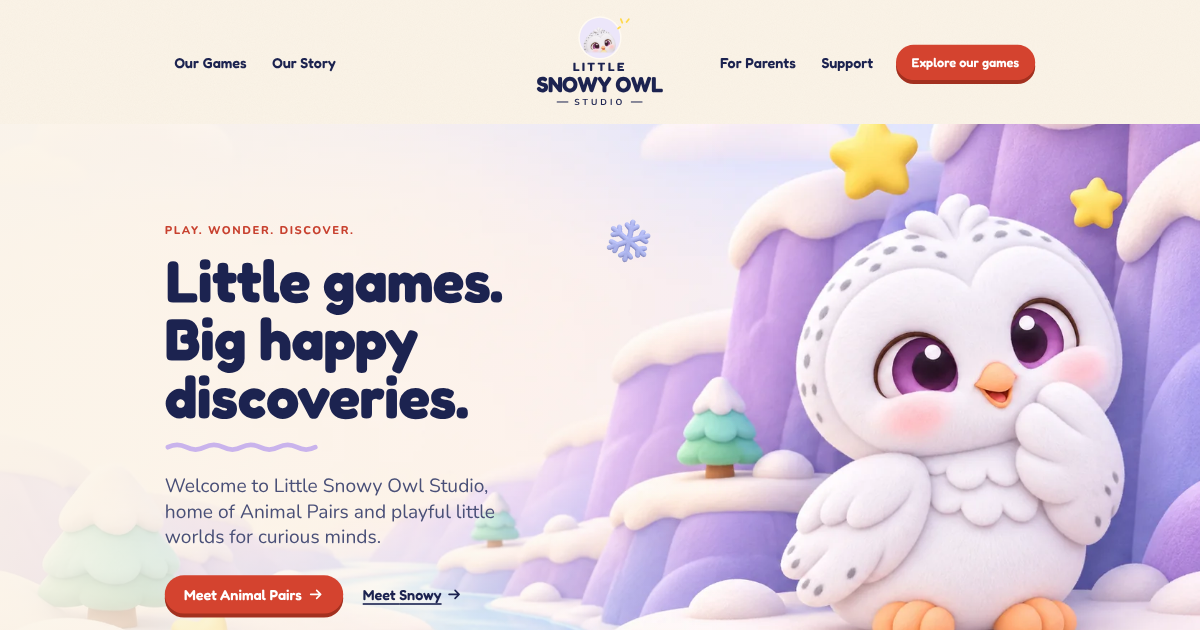
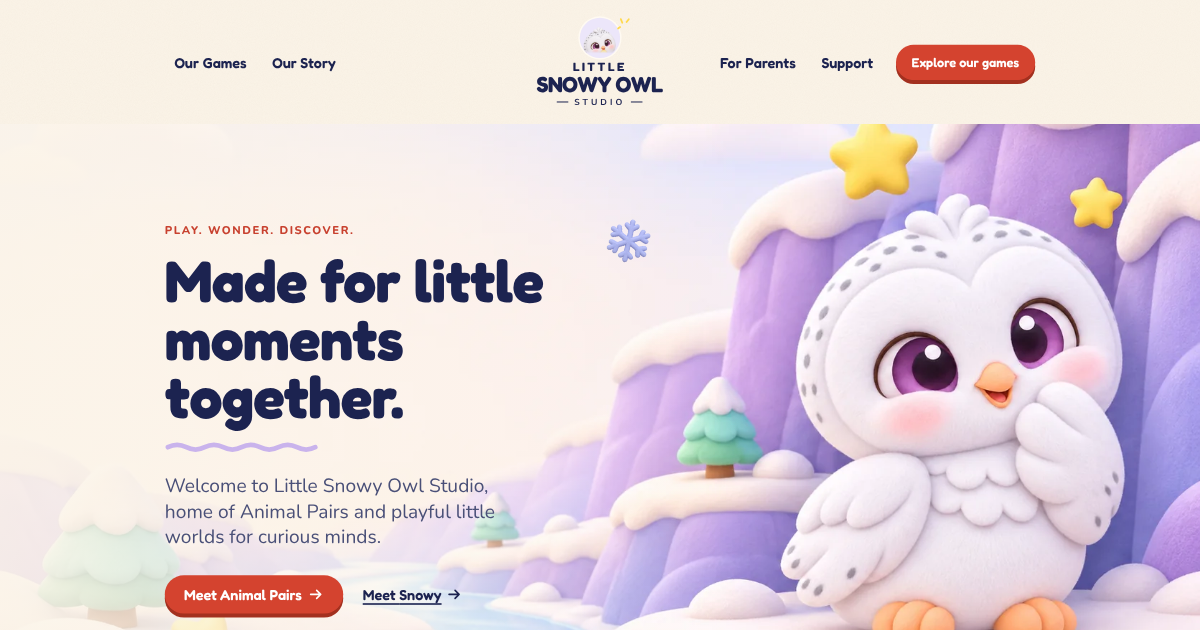
Homepage headline: "Made for little moments together."
Replace "Little games. Big happy discoveries." with the new studio
slogan, and regenerate the social-sharing image from the new hero.

Claude-Session: https://claude.ai/code/session_01PT21SUBoDBaVDdxc9zsmT5

Changed region(s): [[0.1233, 0.3921, 0.4625, 0.6937]]

diff --git a/src/app/page.tsx b/src/app/page.tsx
@@ -66,9 +66,9 @@ export default function Home() {
               <Sticker name="snowflake-b" className="absolute -right-4 -top-2 hidden w-14 rotate-12 opacity-90 sm:block lg:-right-16" />
               <Eyebrow>Play. Wonder. Discover.</Eyebrow>
               <h1 id="hero-title" className="mt-4 text-[clamp(2.6rem,6vw,4.6rem)] leading-[0.98]">
-                Little games.
+                Made for little
                 <br />
-                Big happy discoveries.
+                moments together.
               </h1>
               <Wave className="mt-5 h-4 w-48" />
               <p className="mt-6 max-w-md text-xl text-ink-soft sm:text-2xl">
